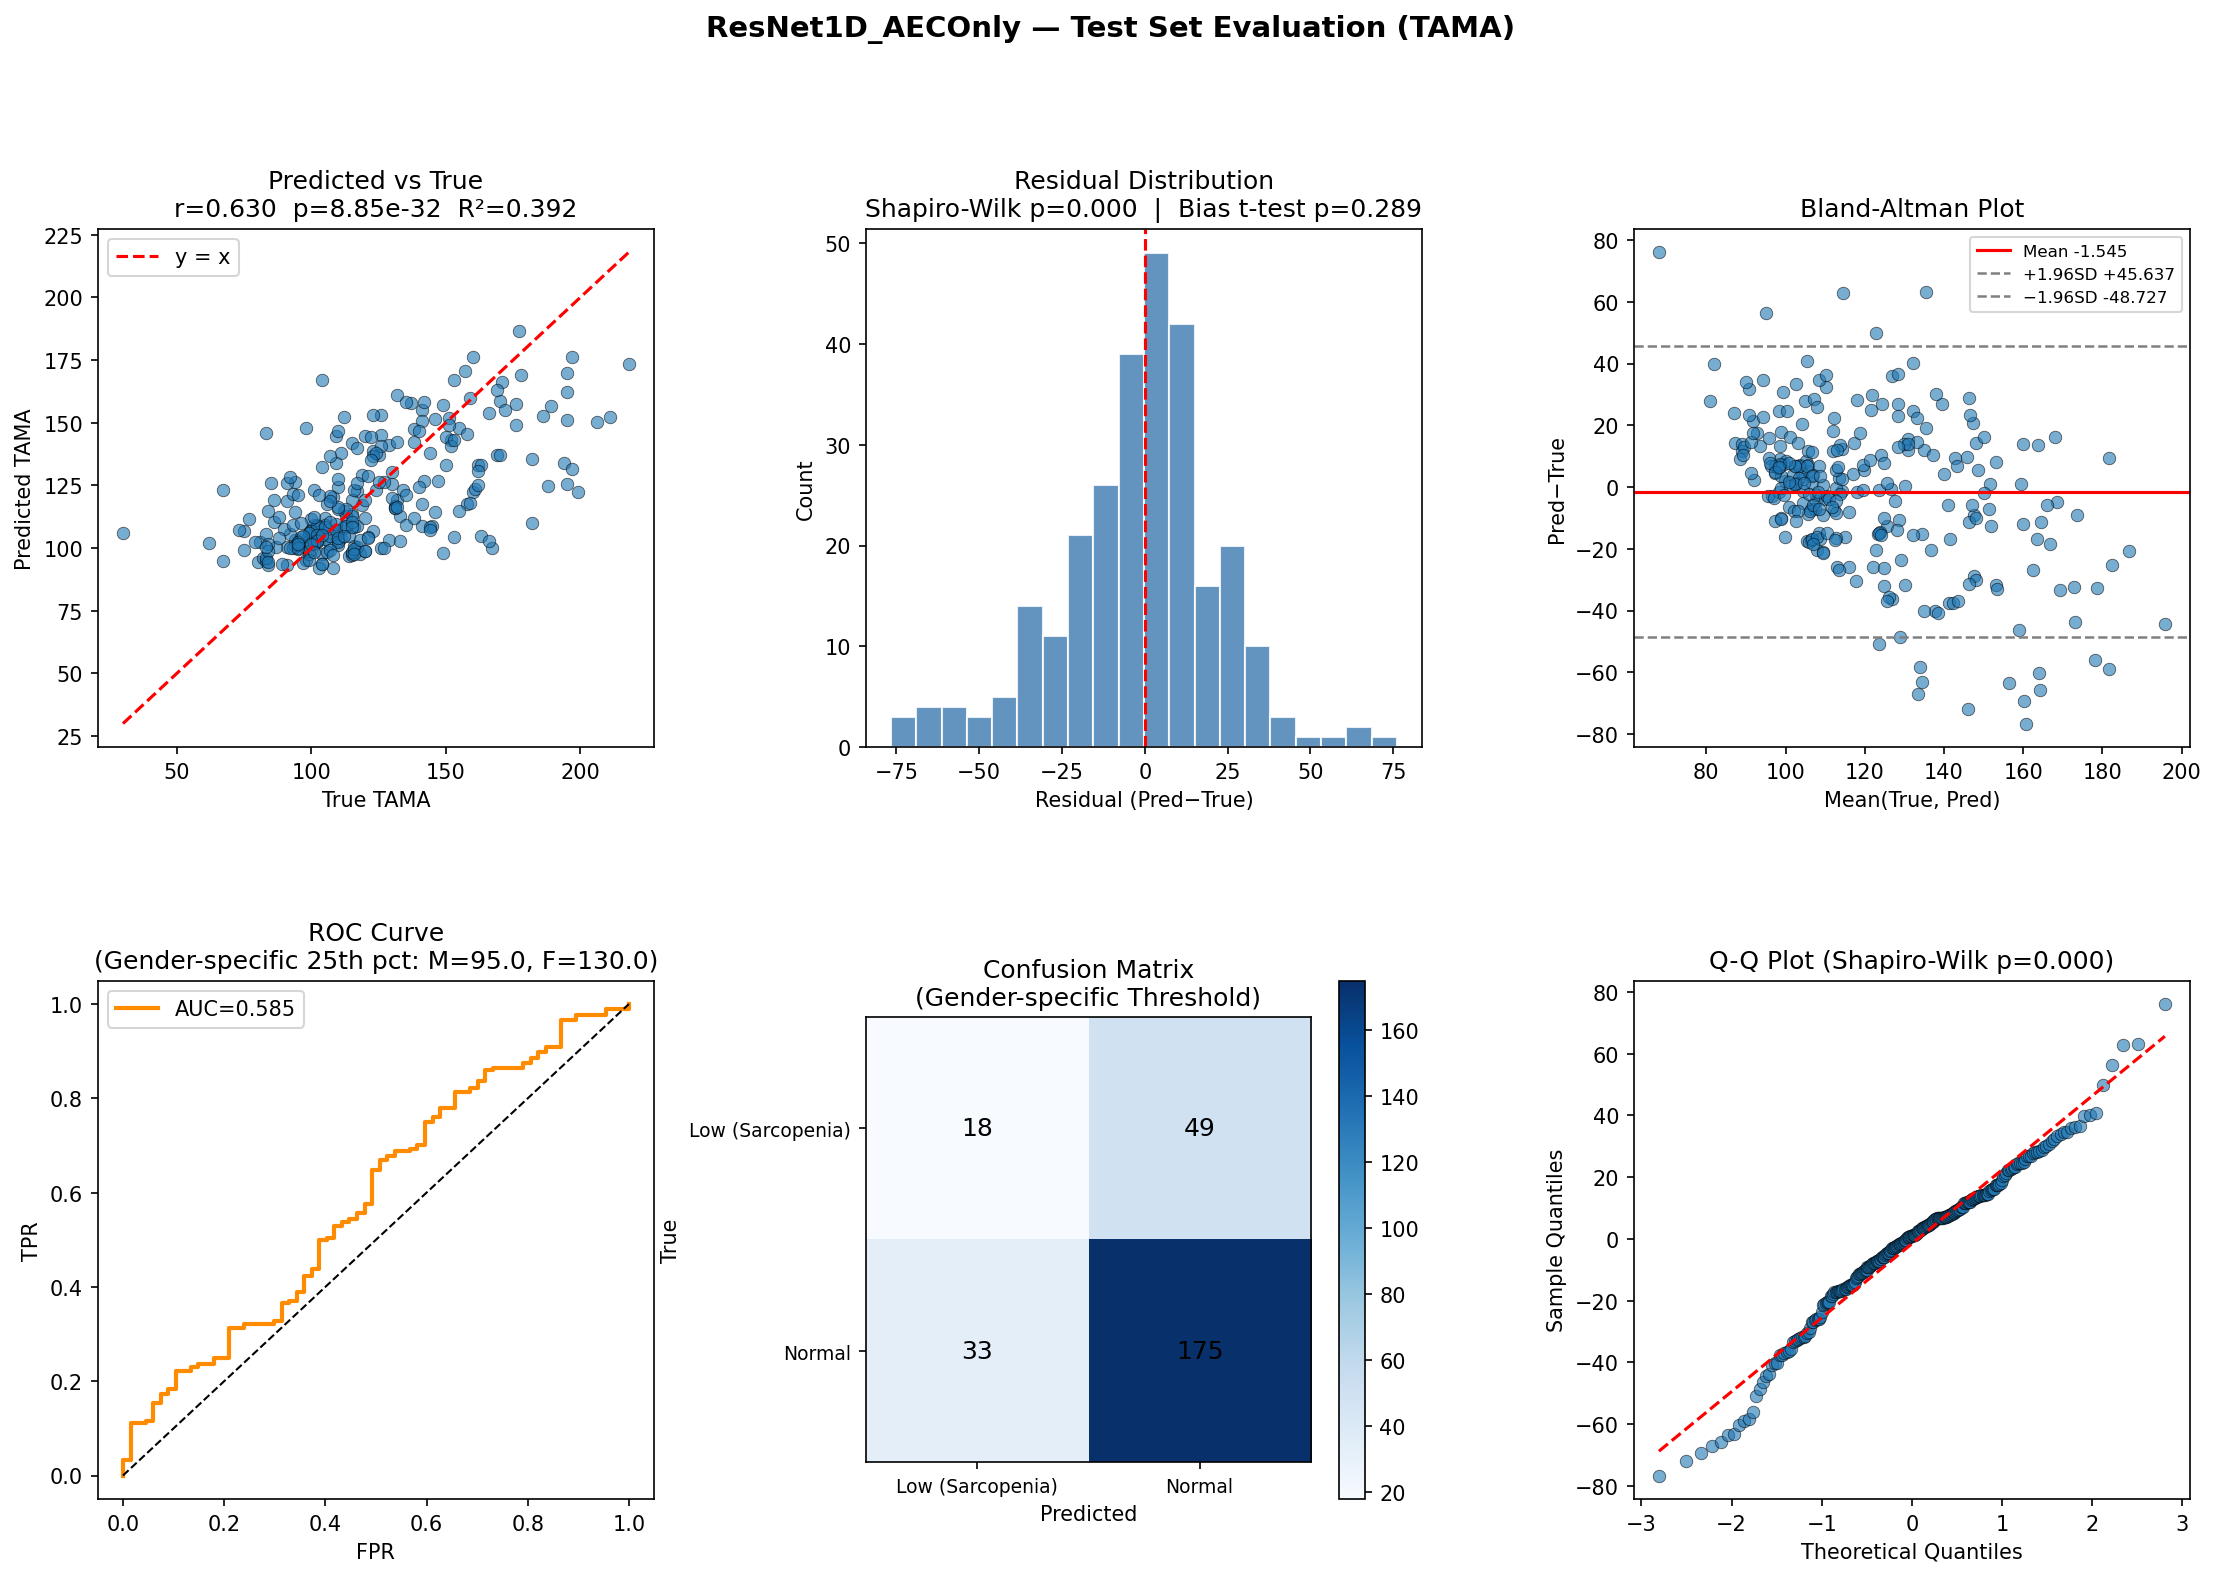
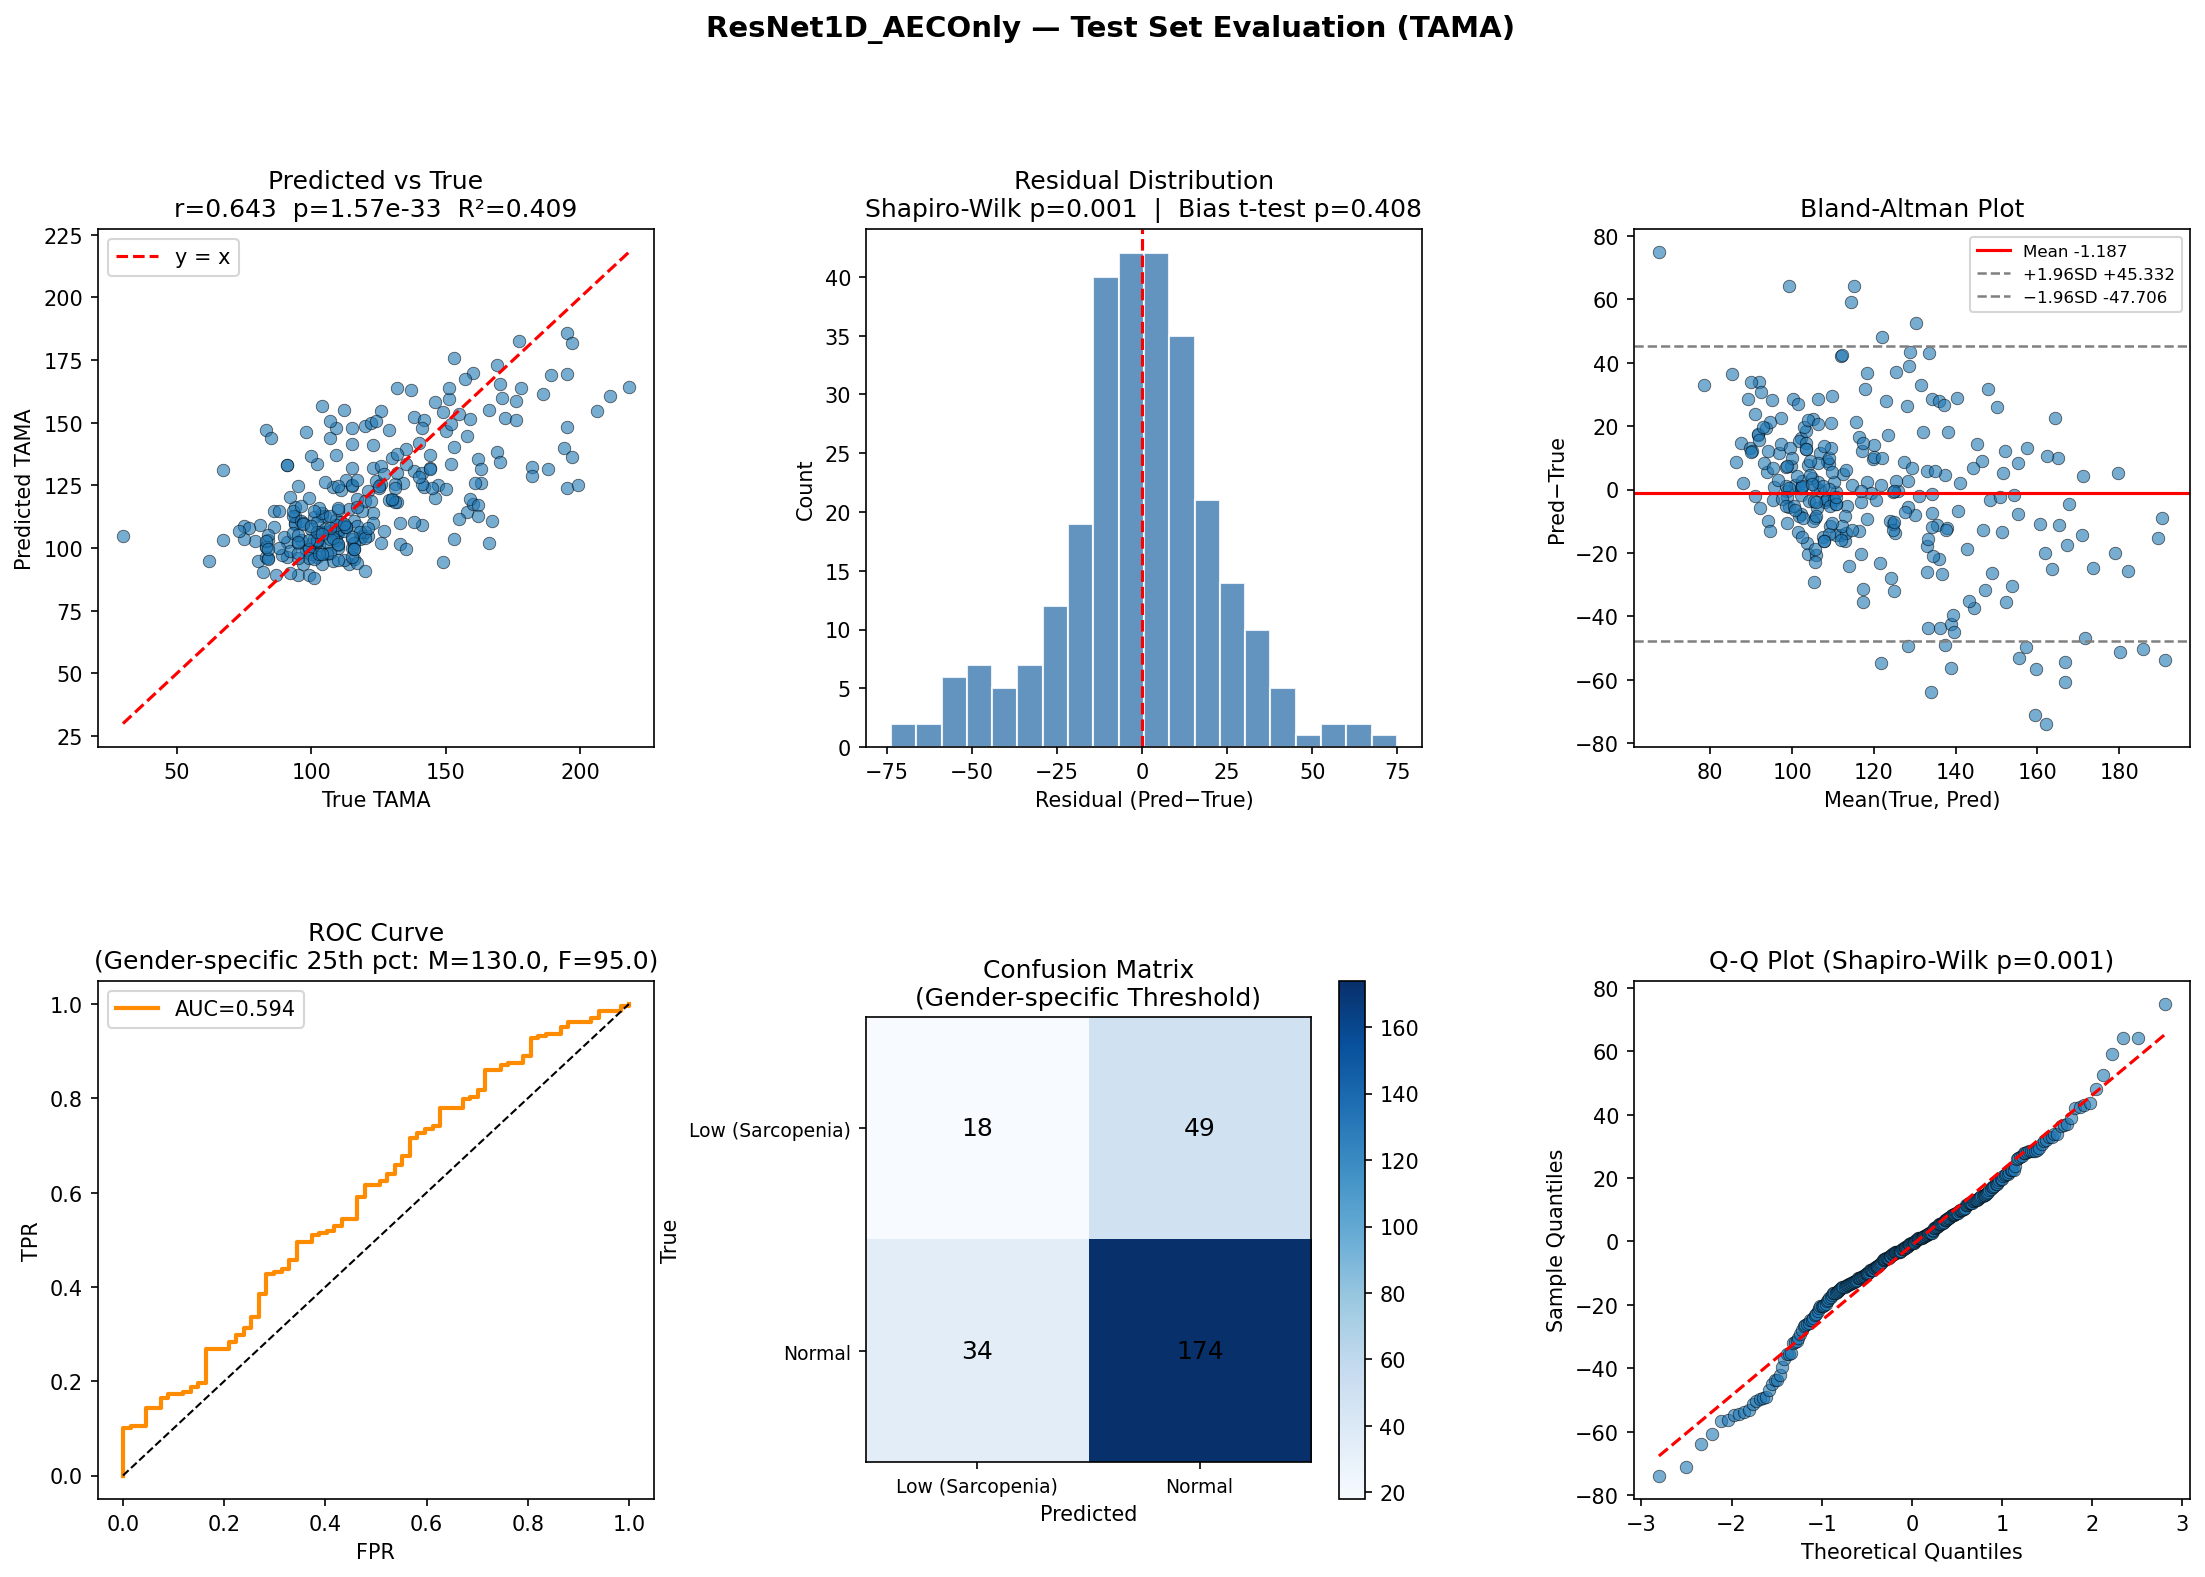
성별 수정

diff --git a/연구코드/results/0508/aec_only/TAMA/ResNet1D_Report.md b/연구코드/results/0508/aec_only/TAMA/ResNet1D_Report.md
@@ -6,26 +6,26 @@
 
 | Fold | MAE | R² |
 |---|---|---|
-| 1 | 19.2213 | 0.3028 |
-| 2 | 16.7773 | 0.3338 |
-| 3 | 14.7311 | 0.4716 |
-| 4 | 16.4567 | 0.4273 |
-| 5 | 16.7764 | 0.3948 |
-| **Mean** | **16.7925** | **0.3861** |
-| **Std** | **1.4326** | **0.0613** |
+| 1 | 18.9769 | 0.2862 |
+| 2 | 16.4036 | 0.3298 |
+| 3 | 15.8452 | 0.4370 |
+| 4 | 16.4721 | 0.4663 |
+| 5 | 16.7040 | 0.3877 |
+| **Mean** | **16.8803** | **0.3814** |
+| **Std** | **1.0856** | **0.0664** |
 
 ## Test Set 성능 (Test 20%)
 
-Test R² = **0.3915**
-Test MAE = **17.9861**
+Test R² = **0.4095**
+Test MAE = **17.6324**
 
 ## 통계 분석 (성별별 임계값 적용)
 
 | 지표 | 값 |
 |---|---|
-| 남성 임계값 (25th pct) | 95.00 |
-| 여성 임계값 (25th pct) | 130.00 |
-| Pearson r | 0.6297 (p=8.846e-32) |
-| Shapiro-Wilk p | 0.0001 |
-| Bias t-test p | 0.2891 |
-| 이진화 AUC (성별 기준) | 0.5854 |
+| 남성 임계값 (25th pct) | 130.00 |
+| 여성 임계값 (25th pct) | 95.00 |
+| Pearson r | 0.6434 (p=1.570e-33) |
+| Shapiro-Wilk p | 0.0009 |
+| Bias t-test p | 0.4084 |
+| 이진화 AUC (성별 기준) | 0.5944 |

diff --git a/연구코드/results/0508/clinic_aec_feature/TAMA/ResNet1D_Report.md b/연구코드/results/0508/clinic_aec_feature/TAMA/ResNet1D_Report.md
@@ -6,26 +6,26 @@
 
 | Fold | MAE | R² |
 |---|---|---|
-| 1 | 13.2576 | 0.6131 |
-| 2 | 12.9514 | 0.6334 |
-| 3 | 11.7637 | 0.6774 |
-| 4 | 14.9095 | 0.5437 |
-| 5 | 13.0434 | 0.6252 |
-| **Mean** | **13.1851** | **0.6186** |
-| **Std** | **1.0073** | **0.0433** |
+| 1 | 13.6788 | 0.6221 |
+| 2 | 12.5203 | 0.6448 |
+| 3 | 11.9641 | 0.6718 |
+| 4 | 14.1248 | 0.5512 |
+| 5 | 13.1955 | 0.6304 |
+| **Mean** | **13.0967** | **0.6241** |
+| **Std** | **0.7772** | **0.0402** |
 
 ## Test Set 성능 (Test 20%)
 
-Test R² = **0.6562**
-Test MAE = **14.0525**
+Test R² = **0.6500**
+Test MAE = **14.0276**
 
 ## 통계 분석 (성별별 임계값 적용)
 
 | 지표 | 값 |
 |---|---|
-| 남성 임계값 (25th pct) | 95.00 |
-| 여성 임계값 (25th pct) | 130.00 |
-| Pearson r | 0.8201 (p=3.893e-68) |
-| Shapiro-Wilk p | 0.2765 |
-| Bias t-test p | 0.0040 |
-| 이진화 AUC (성별 기준) | 0.6234 |
+| 남성 임계값 (25th pct) | 130.00 |
+| 여성 임계값 (25th pct) | 95.00 |
+| Pearson r | 0.8062 (p=3.460e-64) |
+| Shapiro-Wilk p | 0.0069 |
+| Bias t-test p | 0.8507 |
+| 이진화 AUC (성별 기준) | 0.6203 |

diff --git a/연구코드/results/0508/clinic_only/TAMA/ResNet1D_Report.md b/연구코드/results/0508/clinic_only/TAMA/ResNet1D_Report.md
@@ -6,26 +6,26 @@
 
 | Fold | MAE | R² |
 |---|---|---|
-| 1 | 12.6293 | 0.6699 |
-| 2 | 11.9563 | 0.6757 |
-| 3 | 11.3502 | 0.7217 |
-| 4 | 13.0469 | 0.6153 |
-| 5 | 11.5677 | 0.7085 |
-| **Mean** | **12.1101** | **0.6782** |
-| **Std** | **0.6391** | **0.0370** |
+| 1 | 12.5566 | 0.6639 |
+| 2 | 12.1250 | 0.6715 |
+| 3 | 11.1099 | 0.7252 |
+| 4 | 12.8063 | 0.6263 |
+| 5 | 11.6811 | 0.7059 |
+| **Mean** | **12.0558** | **0.6786** |
+| **Std** | **0.6089** | **0.0344** |
 
 ## Test Set 성능 (Test 20%)
 
-Test R² = **0.7162**
-Test MAE = **12.8791**
+Test R² = **0.7191**
+Test MAE = **12.7389**
 
 ## 통계 분석 (성별별 임계값 적용)
 
 | 지표 | 값 |
 |---|---|
-| 남성 임계값 (25th pct) | 95.00 |
-| 여성 임계값 (25th pct) | 130.00 |
-| Pearson r | 0.8507 (p=3.131e-78) |
-| Shapiro-Wilk p | 0.0565 |
-| Bias t-test p | 0.0100 |
-| 이진화 AUC (성별 기준) | 0.6251 |
+| 남성 임계값 (25th pct) | 130.00 |
+| 여성 임계값 (25th pct) | 95.00 |
+| Pearson r | 0.8499 (p=6.461e-78) |
+| Shapiro-Wilk p | 0.0372 |
+| Bias t-test p | 0.4997 |
+| 이진화 AUC (성별 기준) | 0.6324 |

diff --git a/연구코드/results/0508/aec_feature_only/TAMA/ResNet1D_Report.md b/연구코드/results/0508/aec_feature_only/TAMA/ResNet1D_Report.md
@@ -6,26 +6,26 @@
 
 | Fold | MAE | R² |
 |---|---|---|
-| 1 | 19.9277 | 0.2517 |
-| 2 | 17.7571 | 0.2349 |
-| 3 | 17.5019 | 0.2548 |
-| 4 | 20.5361 | 0.1740 |
-| 5 | 18.1271 | 0.2921 |
-| **Mean** | **18.7700** | **0.2415** |
-| **Std** | **1.2253** | **0.0386** |
+| 1 | 19.8654 | 0.2684 |
+| 2 | 17.7989 | 0.2540 |
+| 3 | 17.4525 | 0.2650 |
+| 4 | 19.9662 | 0.2283 |
+| 5 | 17.5650 | 0.3313 |
+| **Mean** | **18.5296** | **0.2694** |
+| **Std** | **1.1378** | **0.0340** |
 
 ## Test Set 성능 (Test 20%)
 
-Test R² = **0.2512**
-Test MAE = **19.9348**
+Test R² = **0.2423**
+Test MAE = **19.7885**
 
 ## 통계 분석 (성별별 임계값 적용)
 
 | 지표 | 값 |
 |---|---|
-| 남성 임계값 (25th pct) | 95.00 |
-| 여성 임계값 (25th pct) | 130.00 |
-| Pearson r | 0.5029 (p=4.976e-19) |
+| 남성 임계값 (25th pct) | 130.00 |
+| 여성 임계값 (25th pct) | 95.00 |
+| Pearson r | 0.5004 (p=7.868e-19) |
 | Shapiro-Wilk p | 0.0000 |
-| Bias t-test p | 0.6059 |
-| 이진화 AUC (성별 기준) | 0.5865 |
+| Bias t-test p | 0.9601 |
+| 이진화 AUC (성별 기준) | 0.5418 |

diff --git a/연구코드/results/0508/aec_feature_only/SMI/ResNet1D_Report.md b/연구코드/results/0508/aec_feature_only/SMI/ResNet1D_Report.md
@@ -6,26 +6,26 @@
 
 | Fold | MAE | R² |
 |---|---|---|
-| 1 | 6.0256 | 0.1900 |
-| 2 | 5.7330 | 0.1681 |
-| 3 | 5.8573 | 0.1896 |
-| 4 | 5.6684 | 0.1568 |
-| 5 | 5.8144 | 0.1517 |
-| **Mean** | **5.8197** | **0.1712** |
-| **Std** | **0.1218** | **0.0160** |
+| 1 | 6.1722 | 0.1733 |
+| 2 | 5.8185 | 0.1402 |
+| 3 | 5.8577 | 0.1682 |
+| 4 | 5.7208 | 0.1516 |
+| 5 | 5.8662 | 0.1737 |
+| **Mean** | **5.8871** | **0.1614** |
+| **Std** | **0.1516** | **0.0133** |
 
 ## Test Set 성능 (Test 20%)
 
-Test R² = **0.1856**
-Test MAE = **6.1098**
+Test R² = **0.1641**
+Test MAE = **6.3637**
 
 ## 통계 분석 (성별별 임계값 적용)
 
 | 지표 | 값 |
 |---|---|
-| 남성 임계값 (25th pct) | 37.77 |
-| 여성 임계값 (25th pct) | 45.81 |
-| Pearson r | 0.4325 (p=5.830e-14) |
+| 남성 임계값 (25th pct) | 45.81 |
+| 여성 임계값 (25th pct) | 37.77 |
+| Pearson r | 0.4057 (p=2.558e-12) |
 | Shapiro-Wilk p | 0.0000 |
-| Bias t-test p | 0.4919 |
-| 이진화 AUC (성별 기준) | 0.5991 |
+| Bias t-test p | 0.7239 |
+| 이진화 AUC (성별 기준) | 0.6208 |

diff --git a/연구코드/results/0508/aec_only/SMI/ResNet1D_Report.md b/연구코드/results/0508/aec_only/SMI/ResNet1D_Report.md
@@ -6,26 +6,26 @@
 
 | Fold | MAE | R² |
 |---|---|---|
-| 1 | 5.7594 | 0.2236 |
-| 2 | 5.6295 | 0.2026 |
-| 3 | 5.3376 | 0.3419 |
-| 4 | 5.2309 | 0.2820 |
-| 5 | 5.5637 | 0.2890 |
-| **Mean** | **5.5042** | **0.2678** |
-| **Std** | **0.1933** | **0.0497** |
+| 1 | 5.8328 | 0.2427 |
+| 2 | 5.6753 | 0.2431 |
+| 3 | 5.1108 | 0.3536 |
+| 4 | 5.4146 | 0.2733 |
+| 5 | 5.4572 | 0.3023 |
+| **Mean** | **5.4981** | **0.2830** |
+| **Std** | **0.2458** | **0.0416** |
 
 ## Test Set 성능 (Test 20%)
 
-Test R² = **0.2864**
-Test MAE = **5.7151**
+Test R² = **0.2832**
+Test MAE = **5.7826**
 
 ## 통계 분석 (성별별 임계값 적용)
 
 | 지표 | 값 |
 |---|---|
-| 남성 임계값 (25th pct) | 37.77 |
-| 여성 임계값 (25th pct) | 45.81 |
-| Pearson r | 0.5418 (p=2.222e-22) |
+| 남성 임계값 (25th pct) | 45.81 |
+| 여성 임계값 (25th pct) | 37.77 |
+| Pearson r | 0.5358 (p=7.768e-22) |
 | Shapiro-Wilk p | 0.0000 |
-| Bias t-test p | 0.9815 |
-| 이진화 AUC (성별 기준) | 0.6095 |
+| Bias t-test p | 0.2405 |
+| 이진화 AUC (성별 기준) | 0.6257 |

diff --git a/연구코드/results/0508/clinic_aec_feature/SMI/ResNet1D_Report.md b/연구코드/results/0508/clinic_aec_feature/SMI/ResNet1D_Report.md
@@ -6,26 +6,26 @@
 
 | Fold | MAE | R² |
 |---|---|---|
-| 1 | 4.9458 | 0.4048 |
-| 2 | 4.8068 | 0.4180 |
-| 3 | 4.4983 | 0.5115 |
-| 4 | 4.7604 | 0.3659 |
-| 5 | 5.2548 | 0.3208 |
-| **Mean** | **4.8532** | **0.4042** |
-| **Std** | **0.2476** | **0.0634** |
+| 1 | 4.9178 | 0.4036 |
+| 2 | 4.7827 | 0.4408 |
+| 3 | 4.7966 | 0.4462 |
+| 4 | 4.6806 | 0.4079 |
+| 5 | 4.9731 | 0.3933 |
+| **Mean** | **4.8301** | **0.4184** |
+| **Std** | **0.1038** | **0.0211** |
 
 ## Test Set 성능 (Test 20%)
 
-Test R² = **0.4045**
-Test MAE = **4.9933**
+Test R² = **0.3991**
+Test MAE = **5.1492**
 
 ## 통계 분석 (성별별 임계값 적용)
 
 | 지표 | 값 |
 |---|---|
-| 남성 임계값 (25th pct) | 37.77 |
-| 여성 임계값 (25th pct) | 45.81 |
-| Pearson r | 0.6388 (p=6.096e-33) |
+| 남성 임계값 (25th pct) | 45.81 |
+| 여성 임계값 (25th pct) | 37.77 |
+| Pearson r | 0.6351 (p=1.844e-32) |
 | Shapiro-Wilk p | 0.0000 |
-| Bias t-test p | 0.2508 |
-| 이진화 AUC (성별 기준) | 0.6975 |
+| Bias t-test p | 0.8071 |
+| 이진화 AUC (성별 기준) | 0.6935 |

diff --git a/연구코드/results/0508/clinic_only/SMI/ResNet1D_Report.md b/연구코드/results/0508/clinic_only/SMI/ResNet1D_Report.md
@@ -6,26 +6,26 @@
 
 | Fold | MAE | R² |
 |---|---|---|
-| 1 | 4.4629 | 0.5124 |
-| 2 | 4.4321 | 0.4961 |
-| 3 | 4.1148 | 0.5897 |
-| 4 | 4.2756 | 0.4754 |
-| 5 | 4.5304 | 0.4764 |
-| **Mean** | **4.3632** | **0.5100** |
-| **Std** | **0.1497** | **0.0421** |
+| 1 | 4.4080 | 0.5184 |
+| 2 | 4.4393 | 0.4929 |
+| 3 | 4.2104 | 0.5844 |
+| 4 | 4.4112 | 0.4736 |
+| 5 | 4.5795 | 0.4770 |
+| **Mean** | **4.4097** | **0.5093** |
+| **Std** | **0.1178** | **0.0407** |
 
 ## Test Set 성능 (Test 20%)
 
-Test R² = **0.5039**
-Test MAE = **4.5951**
+Test R² = **0.5094**
+Test MAE = **4.5529**
 
 ## 통계 분석 (성별별 임계값 적용)
 
 | 지표 | 값 |
 |---|---|
-| 남성 임계값 (25th pct) | 37.77 |
-| 여성 임계값 (25th pct) | 45.81 |
-| Pearson r | 0.7120 (p=8.141e-44) |
+| 남성 임계값 (25th pct) | 45.81 |
+| 여성 임계값 (25th pct) | 37.77 |
+| Pearson r | 0.7174 (p=9.516e-45) |
 | Shapiro-Wilk p | 0.0000 |
-| Bias t-test p | 0.1926 |
-| 이진화 AUC (성별 기준) | 0.6694 |
+| Bias t-test p | 0.1343 |
+| 이진화 AUC (성별 기준) | 0.6728 |
